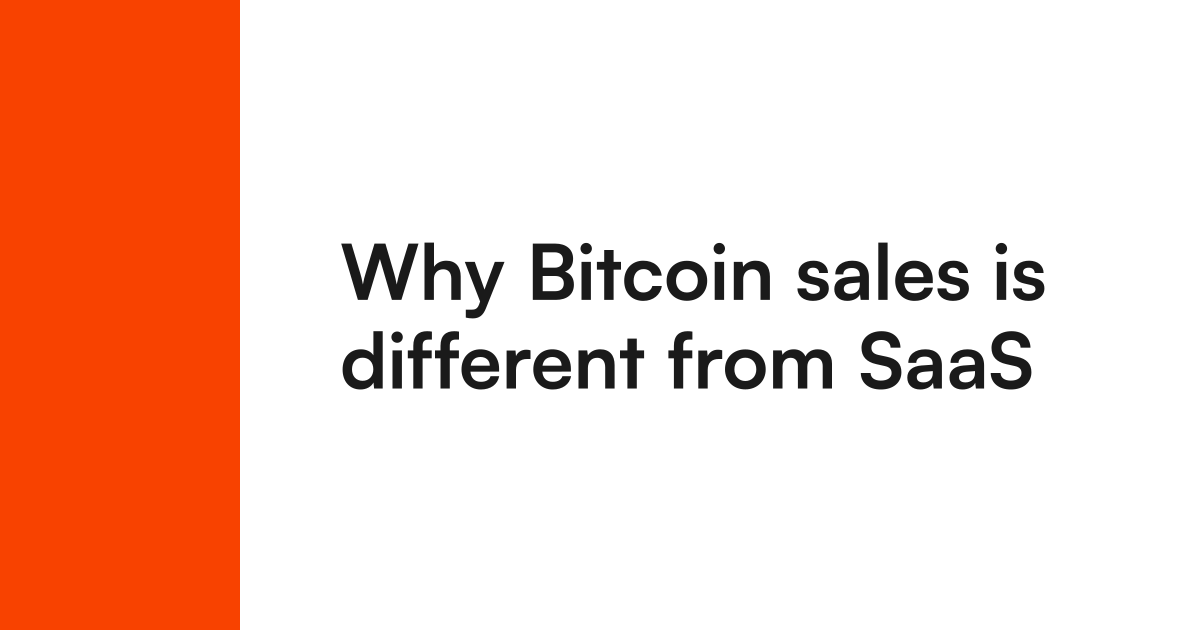
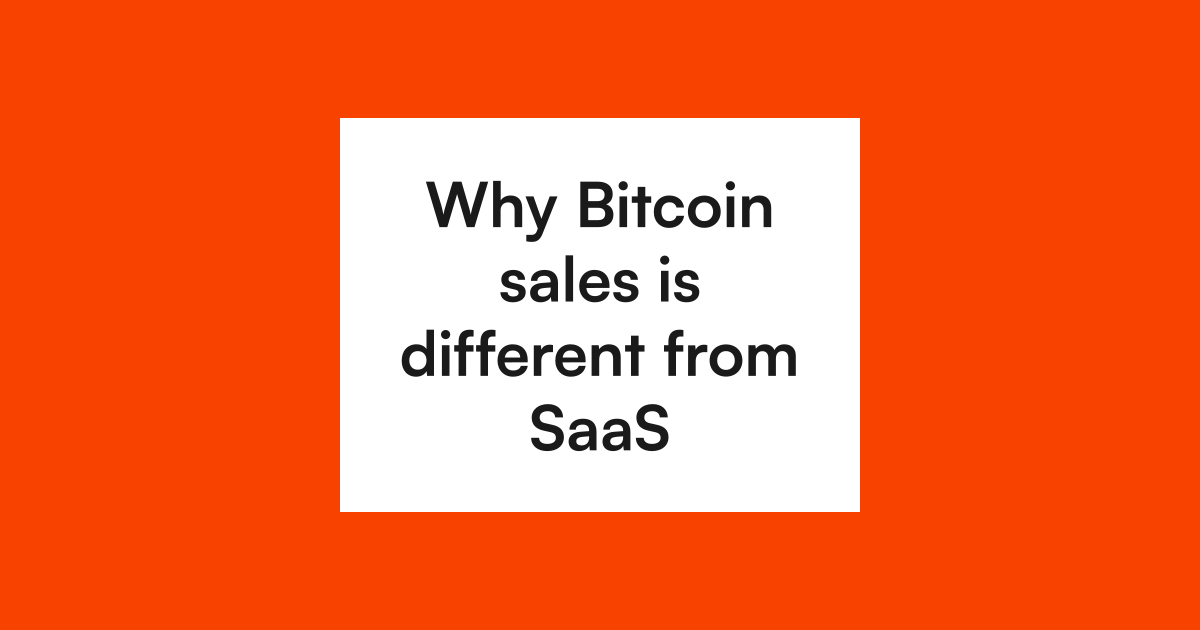
Redesign OG images: full-bleed orange with centered white panel

diff --git a/scripts/generate-og-images.js b/scripts/generate-og-images.js
@@ -43,14 +43,14 @@ async function generateOGImage(title, outputPath, format = 'landscape') {
     ? { width: 1200, height: 1200 }
     : { width: 1200, height: 630 };
 
-  // Orange panel dimensions - vertical panel on left for both formats
-  const orangeWidth = isSquare ? 300 : 240;
-  const orangeHeight = isSquare ? 1200 : 630;
-
-  // Font sizing
+  // Font sizing - slightly smaller to fit in centered panel
   const fontSize = isSquare
     ? calculateSquareFontSize(title)
-    : calculateFontSize(title, 90, 64, 60);
+    : calculateFontSize(title, 72, 52, 60);
+
+  // White panel dimensions - centered, fits in any crop
+  const panelWidth = 520;
+  const panelPadding = 48;
 
   const svg = await satori(
     {
@@ -58,35 +58,25 @@ async function generateOGImage(title, outputPath, format = 'landscape') {
       props: {
         style: {
           display: 'flex',
-          flexDirection: 'row',
+          alignItems: 'center',
+          justifyContent: 'center',
           width: '100%',
           height: '100%',
-          backgroundColor: '#ffffff',
+          backgroundColor: '#F84200',
         },
         children: [
-          // Orange panel - vertical on left for both formats
-          {
-            type: 'div',
-            props: {
-              style: {
-                width: `${orangeWidth}px`,
-                height: `${orangeHeight}px`,
-                backgroundColor: '#F84200',
-                flexShrink: 0,
-              },
-            },
-          },
-          // Text area
+          // Centered white panel with text
           {
             type: 'div',
             props: {
               style: {
                 display: 'flex',
                 alignItems: 'center',
-                justifyContent: 'flex-start',
-                width: `${dimensions.width - orangeWidth}px`,
-                height: '100%',
-                padding: '0 100px 0 100px',
+                justifyContent: 'center',
+                width: `${panelWidth}px`,
+                minHeight: '200px',
+                padding: `${panelPadding}px`,
+                backgroundColor: '#ffffff',
               },
               children: {
                 type: 'div',
@@ -94,10 +84,10 @@ async function generateOGImage(title, outputPath, format = 'landscape') {
                   style: {
                     fontSize: `${fontSize}px`,
                     fontWeight: 700,
-                    lineHeight: 1.15,
+                    lineHeight: 1.2,
                     color: '#1a1a1a',
                     fontFamily: 'Satoshi',
-                    textAlign: 'left',
+                    textAlign: 'center',
                   },
                   children: title,
                 },
